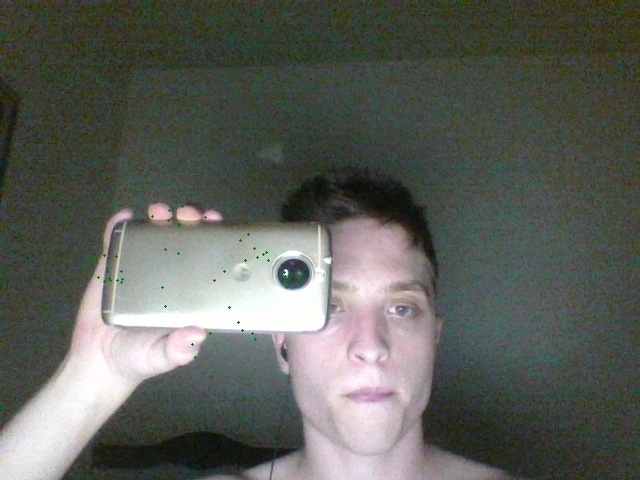
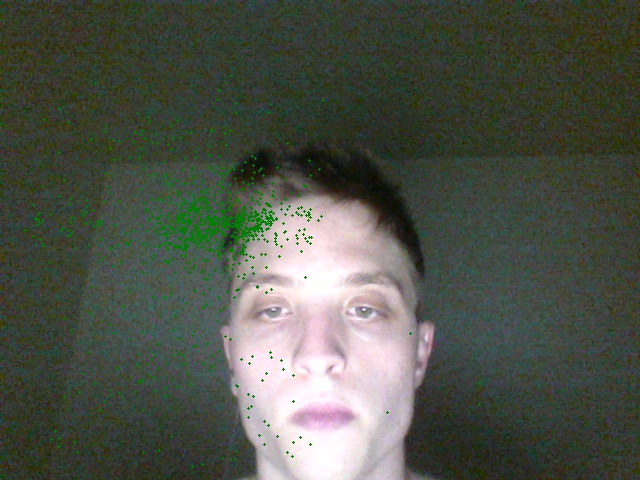
Incrementando contador mapa de calor

diff --git a/src/com/projeto/controller/VideoProcessor.java b/src/com/projeto/controller/VideoProcessor.java
@@ -126,23 +126,31 @@ public class VideoProcessor {
         
         for (Retangulo retangulo : retangulos){
             
-            Ponto ponto = new Ponto();
-            
             Point pontoMedio = calculaPontoMédio(retangulo.getPointBottomRight(), retangulo.getPointTopLeft()); 
-            ponto.setPoint(pontoMedio);
             
-            matAux[(int)pontoMedio.y][(int)pontoMedio.x] = ponto;
-            
+            if (matAux[(int)pontoMedio.y][(int)pontoMedio.x] != null){
+               
+                matAux[(int)pontoMedio.y][(int)pontoMedio.x].
+                        setContador(matAux[(int)pontoMedio.y][(int)pontoMedio.x].getContador() + 1);
+                
+            } else {
+                               
+                Ponto ponto = new Ponto();
+                ponto.setPoint(pontoMedio);
+                ponto.setContador(1);
+                
+                matAux[(int)pontoMedio.y][(int)pontoMedio.x] = ponto;
+            }
         }
         
-        frameMapaCalor = paintMapaCalor(frameMapaCalor, matAux, cols, rows);
+        frameMapaCalor = paintMapaCalor(frameMapaCalor, matAux, cols, rows, retangulos.size());
         
         Imgcodecs.imwrite("mapacalor.jpg", frameMapaCalor);
         System.out.println("Acabei");
         
     }
     
-    public Mat paintMapaCalor(Mat frameMapaCalor, Ponto[][] matAux, int cols, int rows){
+    public Mat paintMapaCalor(Mat frameMapaCalor, Ponto[][] matAux, int cols, int rows, int normalizador){
         
         for(int altura = 0; altura < rows; altura++){
             for(int largura = 0; largura < cols; largura++){            
